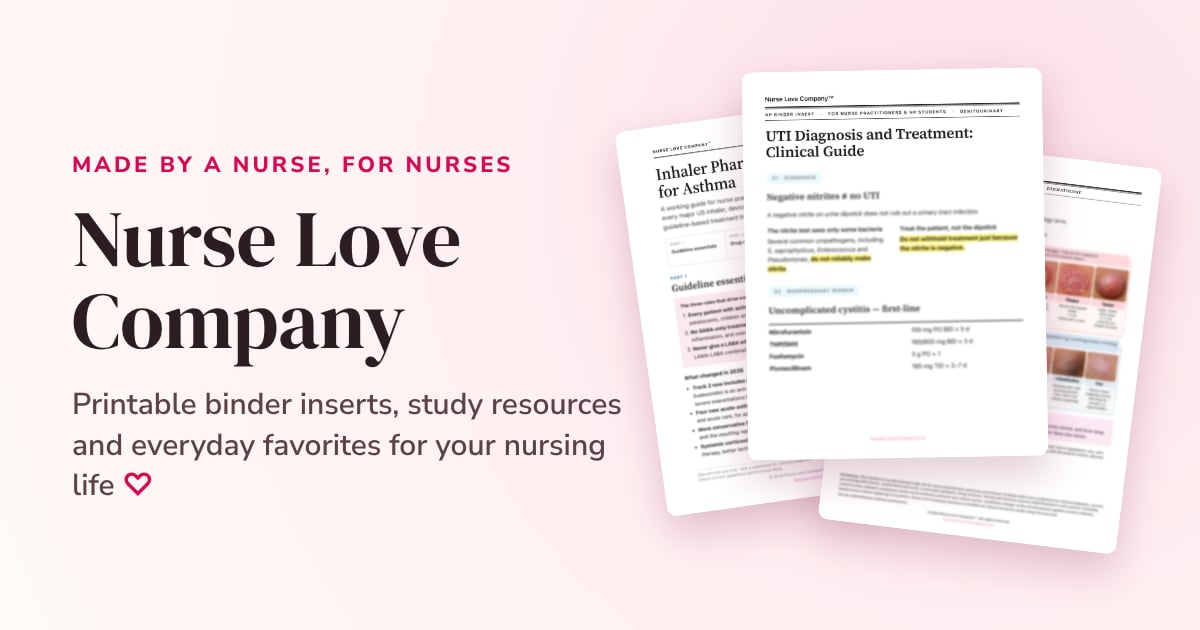
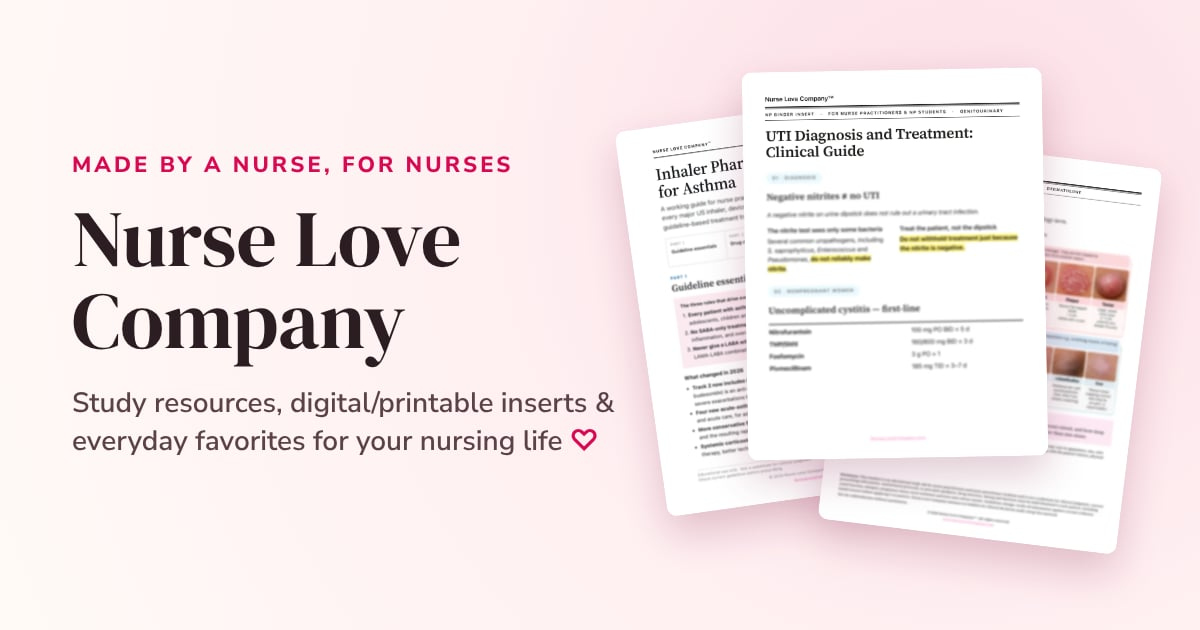
Use the approved tagline word for word everywhere
Study resources, digital/printable inserts & everyday favorites for your
nursing life. Updates the home page, the search and link preview
description, the coming soon page and the share image, with a test that
keeps them the same.

Claude-Session: https://claude.ai/code/session_0179KZJXKQgcZf7QJSFKJFFb

Changed region(s): [[0.0617, 0.6032, 0.5242, 0.7238], [0.0617, 0.754, 0.1233, 0.7841]]

diff --git a/server/seo.ts b/server/seo.ts
@@ -19,7 +19,9 @@ import { config, deployEnv } from './env.js'
 import { PUBLIC_WHERE, publicProduct } from './services/catalog.js'
 
 const SITE = 'Nurse Love Company'
-const SITE_DESCRIPTION = 'Nurse Love Company. Study resources, printable inserts and everyday favorites for your nursing life. Made by a nurse, for nurses.'
+/** The approved tagline. Keep it word for word everywhere (index.html, the hero, the coming soon page). */
+export const TAGLINE = 'Study resources, digital/printable inserts & everyday favorites for your nursing life.'
+const SITE_DESCRIPTION = TAGLINE
 
 interface Meta {
   title: string
@@ -34,7 +36,7 @@ interface Meta {
 
 const STATIC_META: Record<string, { title: string; description: string }> = {
   home: { title: `${SITE} | Printable nurse and NP binder inserts`, description: SITE_DESCRIPTION },
-  shop: { title: `Shop digital resources | ${SITE}`, description: 'Printable binder inserts and study resources for nurses, nurse practitioners and NP students, plus everyday favorites. Made by a nurse, for nurses.' },
+  shop: { title: `Shop digital resources | ${SITE}`, description: `${TAGLINE} For nurses, nurse practitioners and NP students.` },
   'nurse-binder-inserts': { title: `Nurse Binder Inserts | ${SITE}`, description: 'Nurse Binder Inserts: printable resources for your nursing journey. Digital download, binder not included.' },
   'np-binder-inserts': { title: `Nurse Practitioner Binder Inserts | ${SITE}`, description: 'Nurse Practitioner Binder Inserts: printable resources for your NP journey, for NP students and nurse practitioners. Digital download, binder not included.' },
   'extra-cute': { title: `A little extra cute | ${SITE}`, description: 'Apparel, accessories and pretty pens for your nursing life, shipped to you.' },

diff --git a/server/tests/seo.test.ts b/server/tests/seo.test.ts
@@ -2,7 +2,8 @@ import './env.js'
 import assert from 'node:assert/strict'
 import { after, before, beforeEach, describe, it } from 'node:test'
 import { pathFor, routeNameFor } from '../../shared/routes.js'
-import { setPageTemplateForTests } from '../seo.js'
+import { readFileSync } from 'node:fs'
+import { TAGLINE, setPageTemplateForTests } from '../seo.js'
 import { api, digitalProduct, q, setup, teardown } from './helpers.js'
 
 const TEMPLATE = `<!doctype html><html><head>
@@ -99,5 +100,18 @@ describe('Search engines and link previews', () => {
     assert.ok(!map.includes('account'))
     // Tests run as development, which asks search engines to stay away.
     assert.equal((await api('/api/seo/robots.txt')).data, 'User-agent: *\nDisallow: /\n')
+  })
+})
+
+describe('Tagline', () => {
+  it('says the approved tagline word for word everywhere', async () => {
+    assert.equal(TAGLINE, 'Study resources, digital/printable inserts & everyday favorites for your nursing life.')
+    const html = TAGLINE.replace('&', '&amp;')
+    const index = readFileSync('index.html', 'utf8')
+    assert.ok(index.includes(`name="description" content="${html}"`), 'home description')
+    assert.ok(index.includes(`property="og:description" content="${html}"`), 'home link preview')
+    assert.ok(readFileSync('src/data/site.ts', 'utf8').includes(`copy: '${TAGLINE}'`), 'home page hero')
+    assert.ok(readFileSync('middleware.ts', 'utf8').includes(html.charAt(0).toLowerCase() + html.slice(1, -1)), 'coming soon page')
+    assert.ok(((await page('/no-such-page')).data as string).includes(`content="${html}"`), 'default description')
   })
 })

diff --git a/index.html b/index.html
@@ -7,12 +7,12 @@
     <!-- The server replaces this block with each page's own tags (server/seo.ts). This copy is the home page's. -->
     <!--seo-->
     <title>Nurse Love Company | Printable nurse and NP binder inserts</title>
-    <meta name="description" content="Nurse Love Company. Study resources, printable inserts and everyday favorites for your nursing life. Made by a nurse, for nurses." />
+    <meta name="description" content="Study resources, digital/printable inserts &amp; everyday favorites for your nursing life." />
     <link rel="canonical" href="https://nurselovecompany.com/" />
     <meta property="og:site_name" content="Nurse Love Company" />
     <meta property="og:type" content="website" />
     <meta property="og:title" content="Nurse Love Company | Printable nurse and NP binder inserts" />
-    <meta property="og:description" content="Nurse Love Company. Study resources, printable inserts and everyday favorites for your nursing life. Made by a nurse, for nurses." />
+    <meta property="og:description" content="Study resources, digital/printable inserts &amp; everyday favorites for your nursing life." />
     <meta property="og:url" content="https://nurselovecompany.com/" />
     <meta property="og:image" content="https://nurselovecompany.com/og-image.jpg" />
     <meta property="og:image:alt" content="Nurse Love Company: printable binder inserts and study resources" />

diff --git a/middleware.ts b/middleware.ts
@@ -66,7 +66,7 @@ function comingSoonPage() {
   <main>
     <p class="brand">Nurse Love<small>COMPANY</small></p>
     <h1>Coming <em>soon</em></h1>
-    <p>We're putting the finishing touches on study resources, printable inserts and everyday favorites for your nursing life.</p>
+    <p>We're putting the finishing touches on study resources, digital/printable inserts &amp; everyday favorites for your nursing life.</p>
     <p>Check back soon. We can't wait to share it with you.</p>
     <svg class="heart" viewBox="0 0 24 24" aria-hidden="true"><path d="M12 21s-7.5-4.6-7.5-10.2A4.3 4.3 0 0 1 12 8.3a4.3 4.3 0 0 1 7.5 2.5C19.5 16.4 12 21 12 21z" fill="none" stroke="#d80853" stroke-width="1.6" stroke-linejoin="round"/></svg>
   </main>

diff --git a/src/data/site.ts b/src/data/site.ts
@@ -14,7 +14,7 @@ export const site = {
   hero: {
     line1: 'Your nursing life,',
     line2: 'beautifully organized.',
-    copy: 'Study resources, printable inserts & everyday favorites for your nursing life.',
+    copy: 'Study resources, digital/printable inserts & everyday favorites for your nursing life.',
     primary: 'Shop resources',
     secondary: 'Find your essentials',
     label: 'Inserts only • Binder not included',
